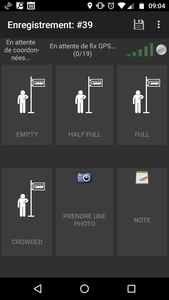
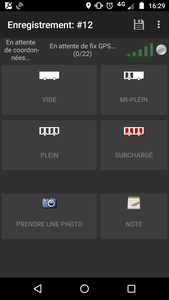
update the picto for bus occupancy layout

diff --git a/layouts/bus_route_occupancy/README.md b/layouts/bus_route_occupancy/README.md
@@ -3,7 +3,3 @@
 This layout is for the tracks of bus routes. It allows to measure occupancy levels (number of passengers) at each stop.
 
 ![Image of layout](layout.png)
-
-TODO:
-- better picto for the 4 buttons
-- update the screenshot accordingly (`convert Screenshot.png -resize x300 layout.png`)
